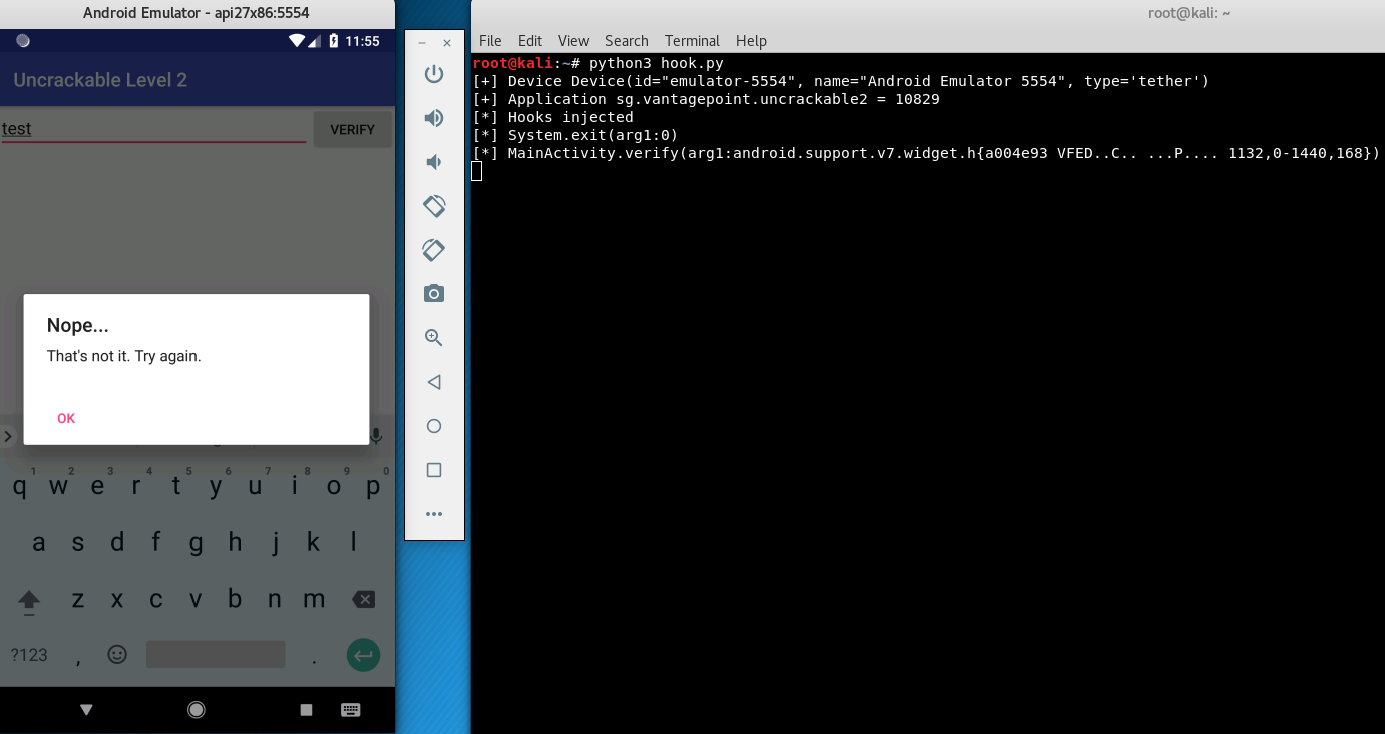
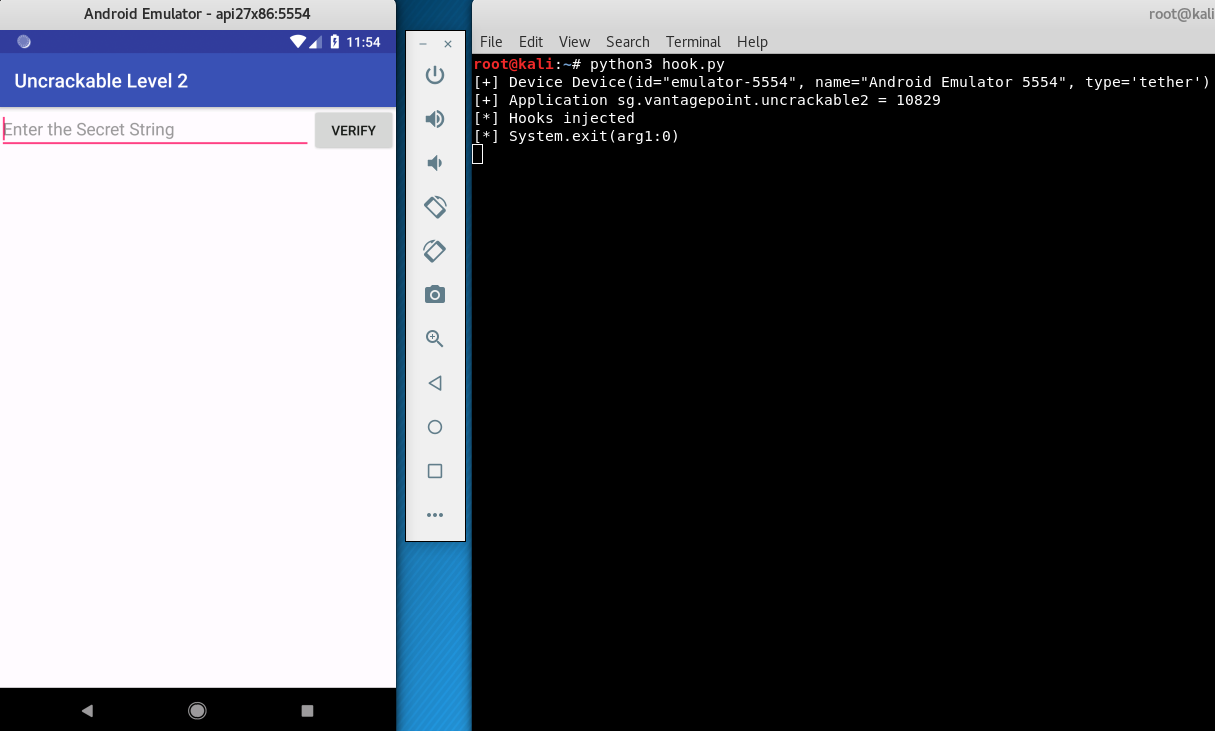
modify the evidences and add some content

diff --git a/_posts/2018-05-31-UnCrackable2.md b/_posts/2018-05-31-UnCrackable2.md
@@ -32,37 +32,53 @@ The *a* method (that aperars on the *onCreate*) creates the error message using 
 
 ![](/images/posts/UnCrackable2/img4.png "a method")
 
-The *verify* function  
+The *verify* function is in charge of calling the *a* method from *CodeCheck* class and create the dialog that will show the verification message.
 
 ![](/images/posts/UnCrackable2/img5.png "verify function")
 
-TODO: new image from native call methods
+*CodeCheck* class is an interface for the native library that calls the native method *bar* to check the user string.
 
-![](/images/posts/UnCrackable2/img6.png "TBC")
+![](/images/posts/UnCrackable2/img6.png "CodeCheck class")
 
 ### Hooking with Frida
 
-![](/images/posts/UnCrackable2/img6.png "TBC")
+Now that we know how the application works, it's time to get your hands dirty and start using **Frida** to bypass the root control.
 
-![](/images/posts/UnCrackable2/img7.png "TBC")
+![](/images/posts/UnCrackable2/img7.png "Root detected message")
 
-![](/images/posts/UnCrackable2/img8.png "TBC")
+We saw in the static code analysis that the application use *System.exit* to kill the application when this detects that the device is rooted. With the following hook the *exit* function is overwritten and it will only send a log message when is called.
 
-![](/images/posts/UnCrackable2/img9.png "TBC")
+![](/images/posts/UnCrackable2/img8.png "Frida JavaScript hook")
 
-![](/images/posts/UnCrackable2/img10.png "TBC")
+![](/images/posts/UnCrackable2/img9.png "Application in a rooted device")
 
-![](/images/posts/UnCrackable2/img11.png "TBC")
+We also know that the *verify* method and the *CodeCheck* class are the responsible to send the string to the native code and receive the check response. With **Frida** we can also follow the execution flow when a user whant to verify the password.
 
-![](/images/posts/UnCrackable2/img12.png "TBC")
+![](/images/posts/UnCrackable2/img10.png "Execution flow")
 
-![](/images/posts/UnCrackable2/img13.png "TBC")
+With the previous hooks we can see the execution flow, but what happens if we modify the Java function and return always true?
 
-### Bonus clip 1
+![](/images/posts/UnCrackable2/img11.png "Frida hooks")
 
-![](/images/posts/UnCrackable2/img14.png "TBC")
+![](/images/posts/UnCrackable2/img12.png "Application always return true")
 
-![](/images/posts/UnCrackable2/img15.png "TBC")
+### Bonus clip 1: hooking native functions
+
+We just hook the Java functions to bypass the secret check, but with **Frida** it is also possible to hook the functions from the native library.
+
+According to the Android NDK documentation ([Android NDK example](https://developer.android.com/ndk/samples/sample_hellojni)), the native functions names have to match with a patter and the Java method name. Using *strings* we can list the native functions names and some other methods used.
+
+![](/images/posts/UnCrackable2/img13.png "library strings")
+
+With **Frida** we can search for a native method and attach a hook that can interact before and after the function is called. With this hook we can modify, like in the Java code, the return value from the native function.
+
+![](/images/posts/UnCrackable2/img14.png "Frida native hook")
+
+![](/images/posts/UnCrackable2/img15.png "Bypass hooking the native function")
+
+### Bonus clip 2: extract the secret dynamically
+
+At this point we still don't know the correct secret ...
 
 ![](/images/posts/UnCrackable2/img16.png "TBC")
 
@@ -76,8 +92,8 @@ TODO: new image from native call methods
 
 ![](/images/posts/UnCrackable2/img21.png "TBC")
 
+### Bonus clip 3: extract the secret statically
+
 ![](/images/posts/UnCrackable2/img22.png "TBC")
 
 ![](/images/posts/UnCrackable2/img23.png "TBC")
-
-![](/images/posts/UnCrackable2/img24.png "TBC")
